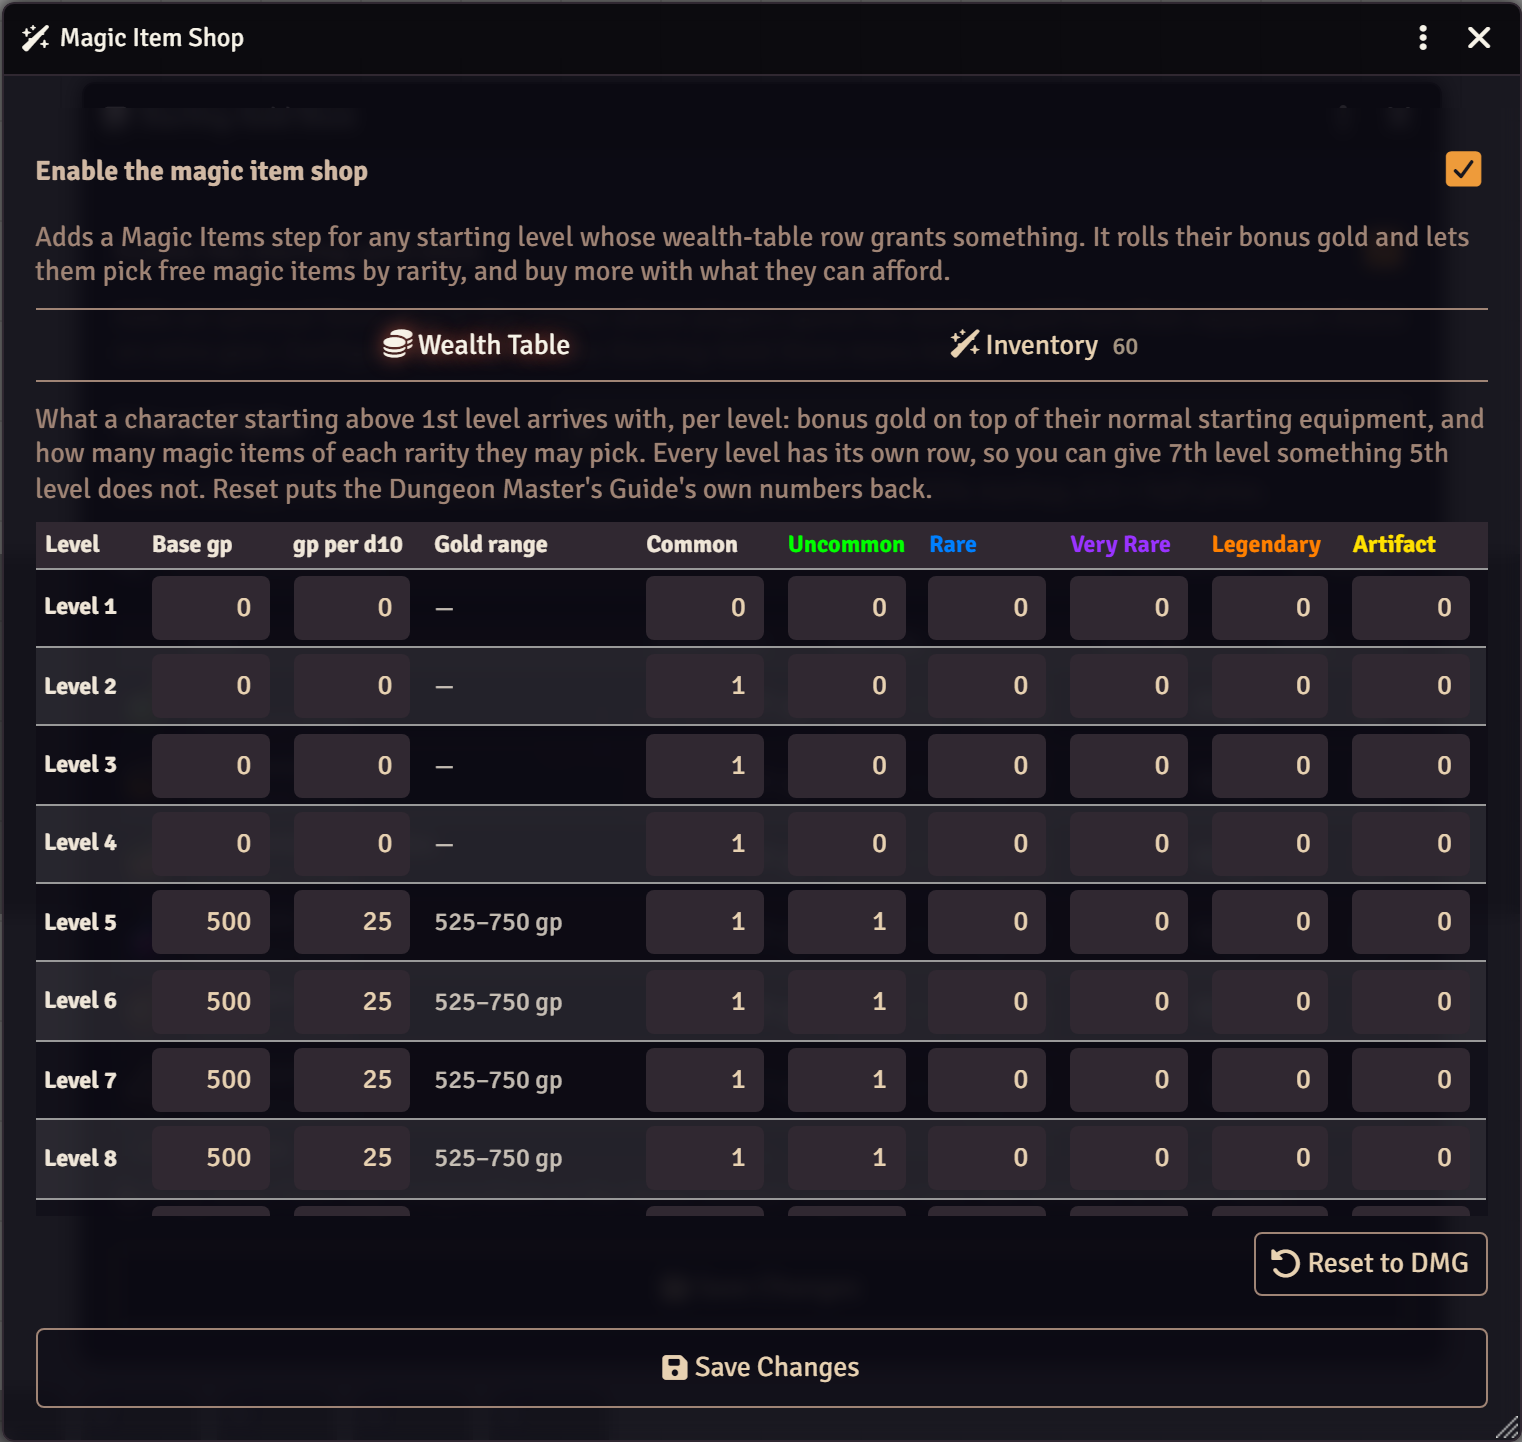
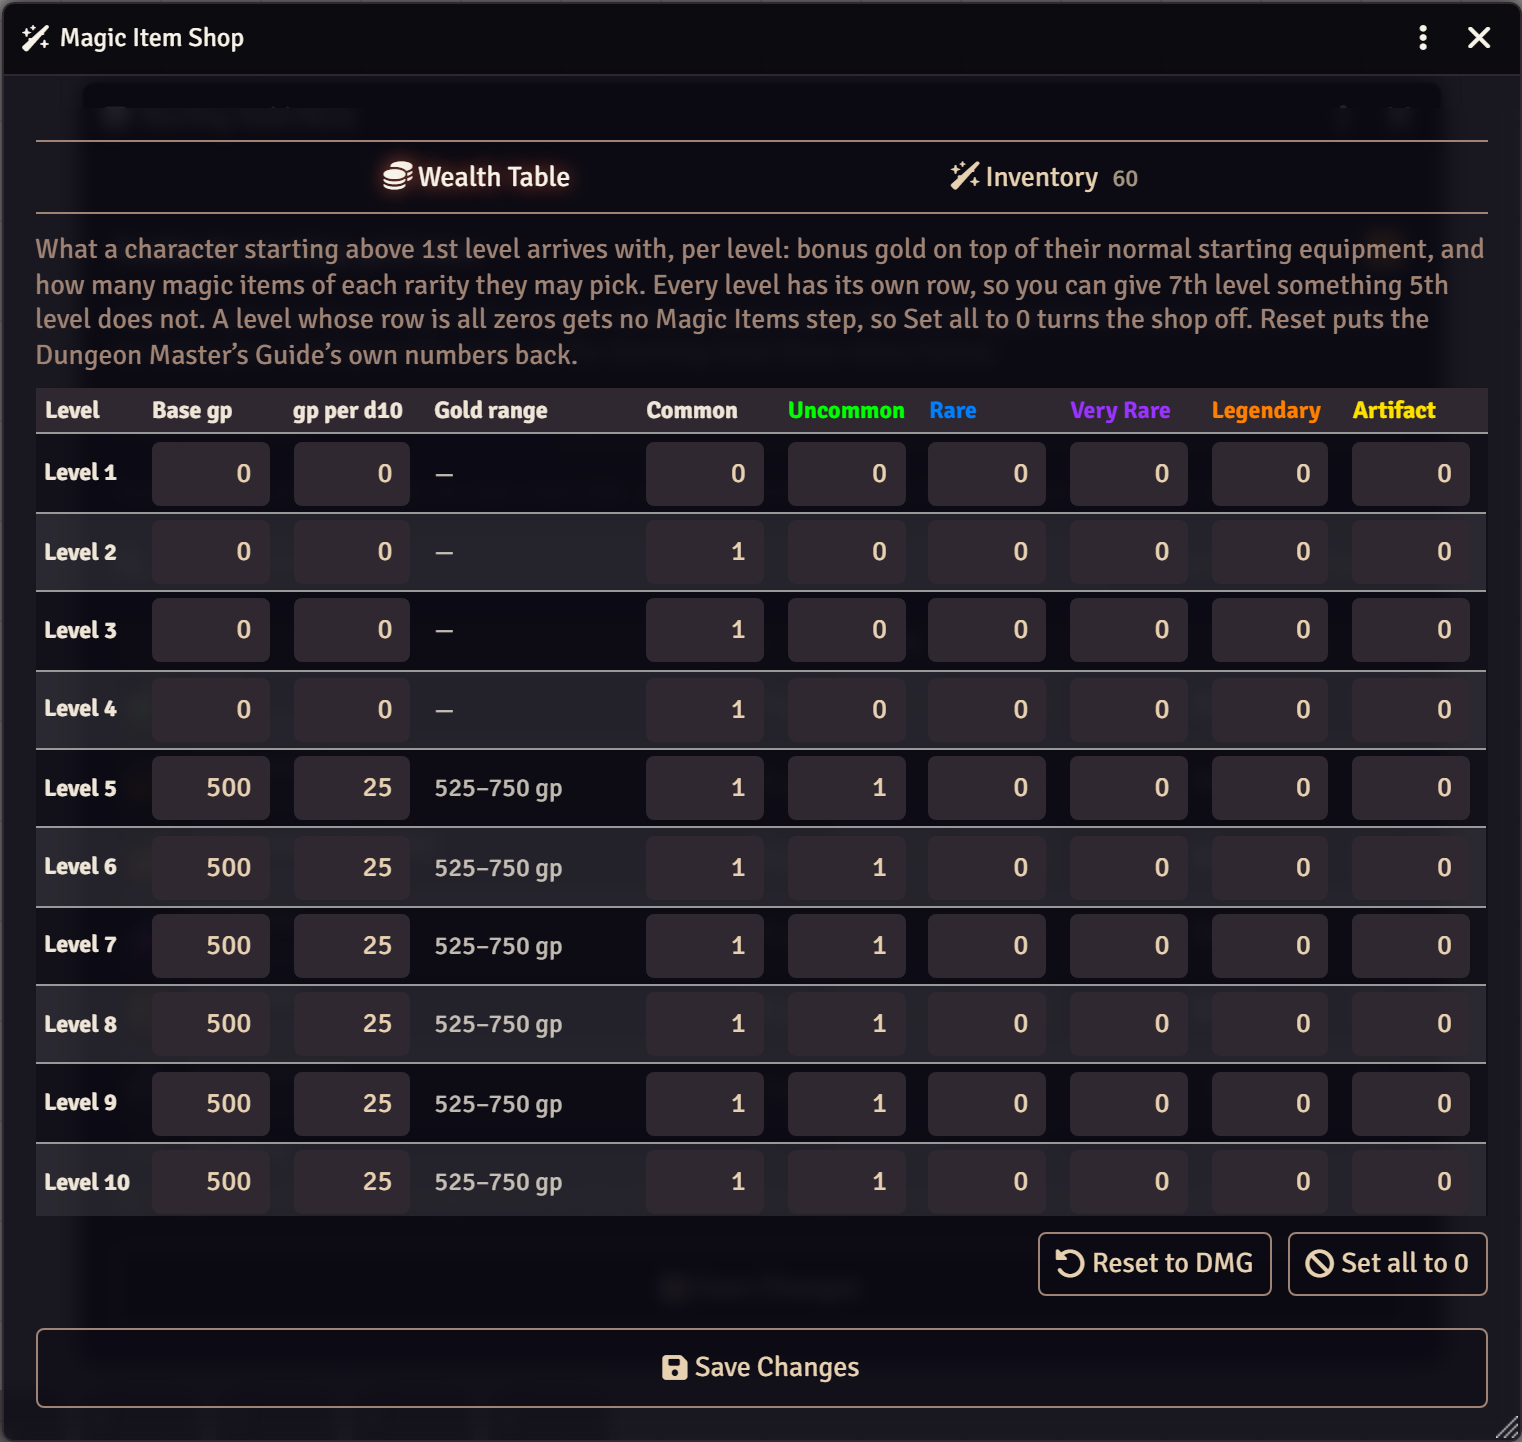
Changing the magic shop config to be enabled by putting numbers in boxes

Changed region(s): [[0.0, 0.0936, 0.9882, 0.905]]

diff --git a/styles/creator/15-magic-items.css b/styles/creator/15-magic-items.css
@@ -136,7 +136,7 @@
 .sogrom-magic-table input[type="number"] { width: 4.2em; text-align: right; }
 .sogrom-magic-table tbody tr { border-top: 1px solid var(--color-border-light-2, rgba(120, 120, 120, 0.3)); }
 .sogrom-magic-range { font-size: 0.8rem; white-space: nowrap; opacity: 0.8; }
-.sogrom-magic-table-actions { display: flex; justify-content: flex-end; }
+.sogrom-magic-table-actions { display: flex; justify-content: flex-end; gap: 0.5rem; }
 .sogrom-magic-table-actions button { width: auto; }
 
 .sogrom-magic-inventory .sogrom-store-inv-toolbar select { flex: 0 0 auto; width: auto; }

diff --git a/test-e2e/README.md b/test-e2e/README.md
@@ -537,6 +537,7 @@ whole screen.
 | `actor` | The finished sheet (built outside the party, for the card below) | sheet |
 | `levelup` | The level-up wizard on that character | screen |
 | `levelup-ready` | The sheet's Level Up button with its golden outline, XP at the threshold (the world is switched to XP levelling for it, and put back by `cleanup`) | sheet header |
+| `repair-button` | The sheet's repair wrench beside Level Up, on a copy of the character with its class skill picks blanked so a level has a skipped choice (the copy is removed by `cleanup`) | sheet header |
 | `chat-card` | The creation chat card with its Add to party button, in the real chat log | the message |
 | `blank-sheet` | A blank character with the gold Build Character hammer | sheet |
 | `blank-menu` | Build Character in the Actors sidebar's right-click menu (game unpaused) | sidebar strip (`clip`) |
